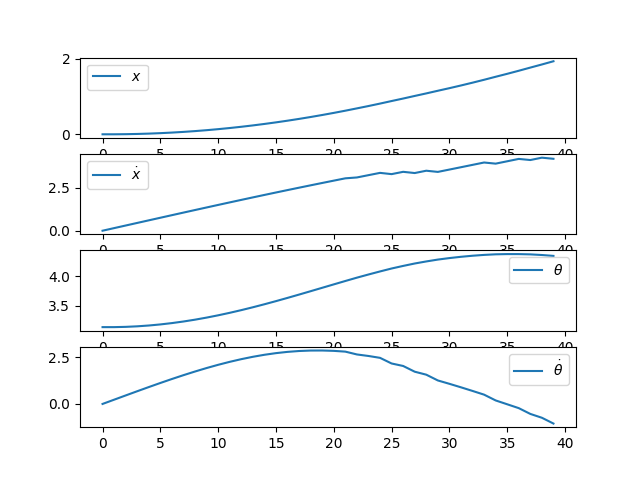
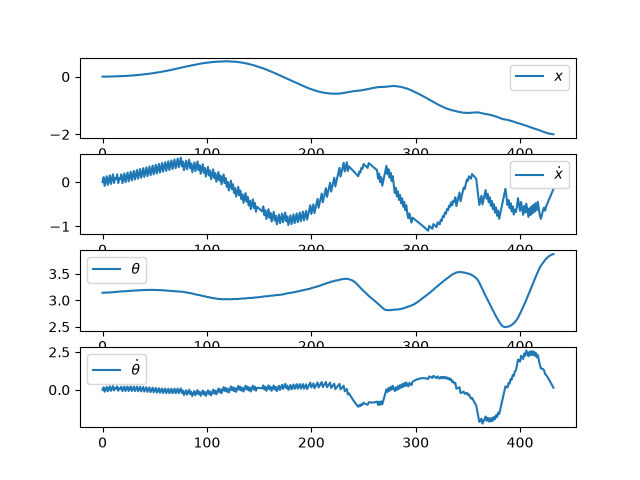
REINFORCE added

diff --git a/envs/cart_pole.py b/envs/cart_pole.py
@@ -9,7 +9,8 @@ from matplotlib.animation import FuncAnimation
 class CartPole(Environment):
     def __init__(self, method):
         super().__init__()
-        self.state_dim = 4
+        self.state_dim  = 4
+        self.action_dim = 1
 
         # We define the state as position, velocity, rotation, angular velocity x,x_d,\theta, \theta_d
         self.init_state     = torch.zeros((self.state_dim,1))
@@ -21,8 +22,8 @@ class CartPole(Environment):
         self.l               = 0.5
         self.g               = 9.8
         self.dt              = 0.02 # 50 Hz
-        self.reached_goal    = False
-        self.reach_threshold = 0.1
+        self.terminate    = False
+        self.reach_threshold = 0.05
         self.x_lim           = 2   # We are limiting the x to be between a thershold to prevent going to infinity
 
         self.save_dir        = f'./logs/cartPole_{method}'
@@ -32,7 +33,7 @@ class CartPole(Environment):
 
     def reset(self):
         self.current_state = self.init_state
-        self.reached_goal  = False
+        self.terminate  = False
 
     def step(self, state, action):
         state_d = torch.zeros((self.state_dim, 1))
@@ -49,15 +50,15 @@ class CartPole(Environment):
         next_state[2] = next_state[2] % (2*torch.pi)
         
         # We want to make the pole upright. It is negative, because we want to maximize
-        if next_state[2] < torch.pi:
-            reward = -torch.linalg.norm(next_state-self.terminal_state)
+        if next_state[2] < self.reach_threshold:
+            reward = 0
+        elif next_state[2] > (2*torch.pi - self.reach_threshold):
+            reward = 0
         else:
-            diff_    = next_state-self.terminal_state
-            diff_[2] = 2*torch.pi - next_state[2]
-            reward = -torch.linalg.norm(diff_)
-        if -reward < self.reach_threshold or next_state[0] > self.x_lim or next_state[0] < -self.x_lim:
-            self.reached_goal = True
-        return next_state, reward, self.reached_goal
+            reward = -1
+        if reward == 0 or next_state[0] > self.x_lim or next_state[0] < -self.x_lim:
+            self.terminate = True
+        return next_state, reward, self.terminate
     
     def plot_states(self, states):
         fig, ax = plt.subplots()
@@ -80,11 +81,11 @@ class CartPole(Environment):
             fig,
             update_frame,
             frames=len(states),
-            interval=self.dt*10,
+            interval=self.dt*1000,
             blit=True
         )
 
-        ani.save(f'{self.save_dir}/animation/cartPole.gif', writer="pillow", fps=2)
+        ani.save(f'{self.save_dir}/animation/cartPole.gif', writer="pillow", fps=int(1 / self.dt))
         plt.close(fig)
         plt.close()
 

diff --git a/experiments/dqn_cart_pole.py b/experiments/dqn_cart_pole.py
@@ -9,13 +9,13 @@ seed              = 0
 torch.manual_seed(seed)
 
 # DQN Hyper-Parameters
-n_episodes         = 100
+n_episodes         = 20000
 epsilon            = 0.7  # Probability for taking random actions
 action_dim         = 10   # Number of bins for the action space
 gamma              = 0.9  # Discount factor
 initial_data_size  = 1000 # This is used to make sure, we train the network after dataset has some samples and not train only on few samples in the begining
 update_rate        = 500 # Number of steps used to copy the online network to the target network.
-replay_buffer_size = 100000
+replay_buffer_size = 50000
 
 # Training Hyper-Parameters
 batch_size        = 64
@@ -74,7 +74,7 @@ state = env.current_state
 
 while True:
     state = torch.as_tensor(state,dtype=torch.float32,device=device)
-    action = agent.act_greedy(Q_target.predict(state.squeeze(-1)).detach().numpy())
+    action = agent.act_greedy(Q_online.predict(state.squeeze(-1)).detach().numpy())
     next_state, reward, reached_goal = env.step(state, agent.actions[action])
     states_for_plotting.append(state.detach().numpy())
     print(f'Reward: {reward}')

diff --git a/agents/mlp.py b/agents/mlp.py
@@ -1,0 +1,34 @@
+import torch
+import torch.nn as nn
+
+class MLP(nn.Module):
+    def __init__(self, input_dim, hidden_dim, n_layers, output_dim):
+        super().__init__()
+
+        self.layers = nn.ModuleList()
+        self.activation = nn.ReLU()
+
+        self.layers.append(nn.Linear(input_dim, hidden_dim))
+
+        for i in range(n_layers):
+            self.layers.append(nn.Linear(hidden_dim, hidden_dim))
+
+        self.layers.append(nn.Linear(hidden_dim, output_dim))
+
+    def forward(self, x):
+        for i, layer in enumerate(self.layers):
+            x = layer(x)
+            # Not applying the activation function to the last layer
+            if i < len(self.layers) - 1:
+                x = self.activation(x)
+
+        return x
+    
+    def predict(self, x):
+        device = next(self.parameters()).device
+        x = torch.as_tensor(x, dtype=torch.float32, device=device)
+
+        with torch.no_grad():
+            return self(x)
+
+

diff --git a/experiments/reinforce_cart_pole.py b/experiments/reinforce_cart_pole.py
@@ -1,0 +1,39 @@
+from envs.cart_pole import CartPole
+from agents.mlp import MLP
+
+# Genral hyper-parameters
+n_episodes = 10000
+gamma      = 0.9 # Discount factor
+
+# Policy hyper-parameters
+hidden_dim = 128
+n_layers   = 2
+
+
+env   = CartPole(method='REINFORCE')
+agent = MLP(input_dim=env.state_dim, hidden_dim=hidden_dim, n_layers=n_layers, output_dim=env.action_dim)
+
+for episode in range(n_episodes):
+    env.reset()
+    state = env.current_state
+    states  = []
+    actions = []
+    rewards = []
+
+    while True:
+        action = agent.predict(state.squeeze(-1)).detach().numpy()
+        next_state, reward, terminate = env.step(state, action)
+
+        if terminate:
+            break
+
+        state = next_state
+        states.append(state)
+        actions.append(actions)
+        rewards.append(reward)
+
+    g = 0
+    i = len(rewards) - 1
+    for reward in rewards[::-1]:
+        rewards[i] = gamma * g + reward
+        i -= 1

diff --git a/utils/reinforce_training.py b/utils/reinforce_training.py
@@ -1,0 +1,31 @@
+import torch
+import torch.nn as nn
+import torch.optim as optim
+
+class Training:
+    def __init__(self, batch_size, lr, gamma, policy, device='cpu', method='REINFORCE'):
+        self.policy         = policy
+        self.batch_size     = batch_size
+        self.method         = method
+        self.lr             = lr
+        self.gamma          = gamma
+        self.device         = device
+
+    def train(self, states, actions, returns):
+
+        optimizer = optim.Adam(self.policy.parameters(), lr=self.lr)
+
+        self.policy.train()
+        
+        optimizer.zero_grad()
+
+        target = (reward.squeeze(-1) + values*self.gamma)
+
+    
+        output = self.online_network(state).gather(dim=1, index=action.long())
+        loss = criterion(output.squeeze(-1), target)
+
+        loss.backward()
+        optimizer.step()
+
+   

diff --git a/utils/replay_buffer.py b/utils/replay_buffer.py
@@ -23,5 +23,5 @@ class ReplayBuffer():
 
         self.idx += 1
 
-        if self.idx > self.size:
+        if self.idx >= self.size:
             self.idx = 0

diff --git a/notes/reinforce.md b/notes/reinforce.md
@@ -3,7 +3,7 @@ The main idea in REINFORCE is to use a neural network as the policy and learn po
 
 $$
 
-J(\theta) = \mathbb{E}_{\tau \from p_{\theta}(\tau)} G(\tau)
+J(\theta) = \mathbb{E}_{\tau \mathcal p_{\theta}(\tau)} G(\tau)
 
 $$
 
@@ -38,7 +38,7 @@ $$
 
 \begin{aligned}
 \nabla_{\theta}J(\theta) &= \int p_{\theta}(\tau)\nabla_{\theta} log p_{\theta}(\tau) G(\tau)  \, \mathrm{d}\tau \\
-&= \mathbb{E}_{\tau \from p_{\theta}(\tau)} [\nabla_{\theta} log p_{\theta}(\tau) G(\tau)]
+&= \mathbb{E}_{\tau \mathcal p_{\theta}(\tau)} [\nabla_{\theta} log p_{\theta}(\tau) G(\tau)]
 \end{aligned}
 
 $$
@@ -47,7 +47,7 @@ We expand the trajectory probability as $p_{\theta}(\tau)=p(s_0) \prod_{t=0}^{t=
 
 $$
 
-\nabla_{\theta}J(\theta) = \mathbb{E}_{\tau \from p_{\theta}(\tau)}[\sum_{t=0}^{t=T}\nabla_{\theta}log \pi_{\theta}(a_t|s_t)G(\tau)]
+\nabla_{\theta}J(\theta) = \mathbb{E}_{\tau \mathcal p_{\theta}(\tau)}[\sum_{t=0}^{t=T}\nabla_{\theta}log \pi_{\theta}(a_t|s_t)G(\tau)]
 
 $$
 
@@ -55,6 +55,18 @@ There is one point here, the expected return is using the whole trajectory retur
 
 $$
 
-\nabla_{\theta}J(\theta) = \mathbb{E}_{\tau \from p_{\theta}(\tau)}[\sum_{t=0}^{t=T}\nabla_{\theta}log \pi_{\theta}(a_t|s_t)G_t]
+\nabla_{\theta}J(\theta) = \mathbb{E}_{\tau \mathcal p_{\theta}(\tau)}[\sum_{t=0}^{t=T}\nabla_{\theta}log \pi_{\theta}(a_t|s_t)G_t]
 
 $$
+
+# Problem
+The main problem that we want to solve is to maximize the expected return:
+
+$$
+
+\theta^{*} = \argmax_{\theta} \mathbb{E}_{\tau \mathcal p_{\theta}(\tau)} \sum_{t=0}^{t=T} log \pi_{\theta}(a_t|s_t) G_t
+
+$$
+
+# Observations
+REINFORCE collects an episode. Calculates the returns. Then train the policy on the samples of this episode once.

diff --git a/notes/dqn_vs_ddqn.md b/notes/dqn_vs_ddqn.md
@@ -27,3 +27,8 @@ $$
 R + \gamma Q_{target}(S', \argmax_{a'}Q_{online}(S',a'))
 
 $$
+
+# Observations
+One of the main limitations of DQN style algorithms is that they are working on discrete action space. Therefore, for most of the robotics problems that we deal with continous actions, we need to discretize the actions.
+
+We keep a replay buffer of a constant size and we add the new samples like FIFO. Each time also, we train only on a batch of samples randomly selected from this buffer.
